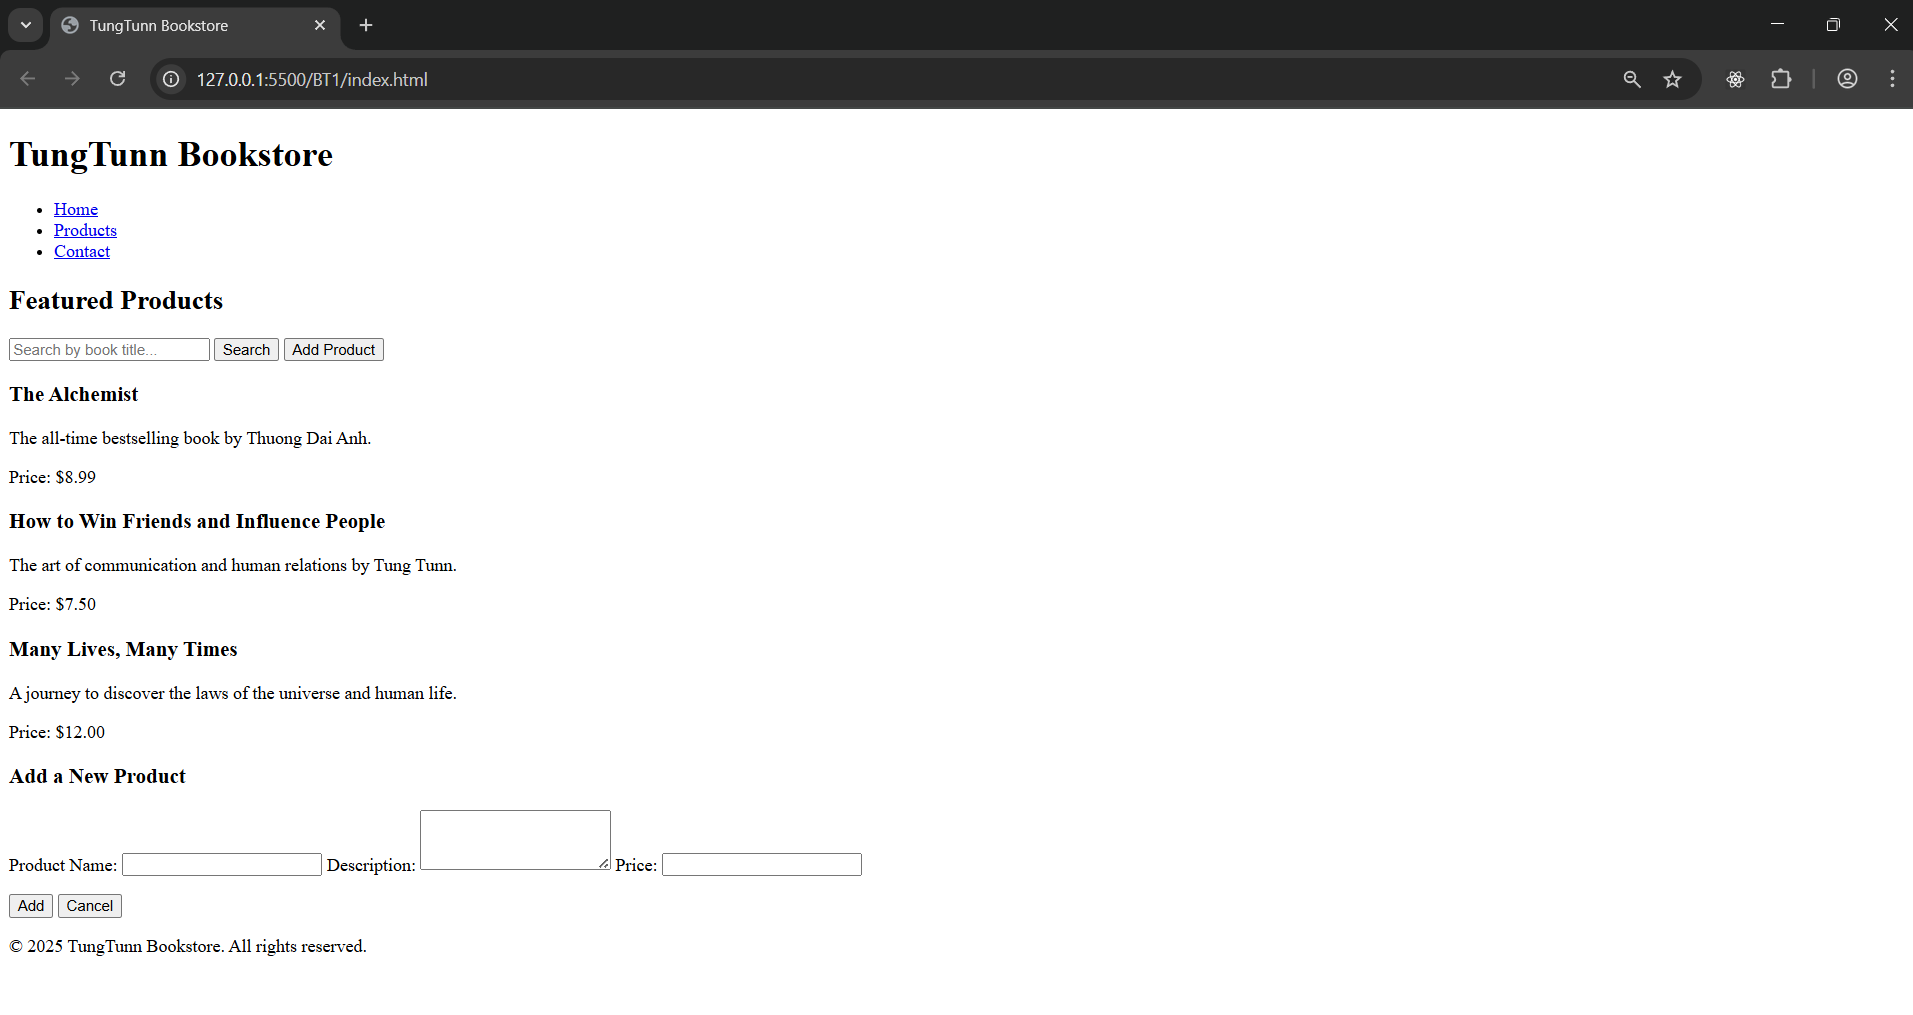
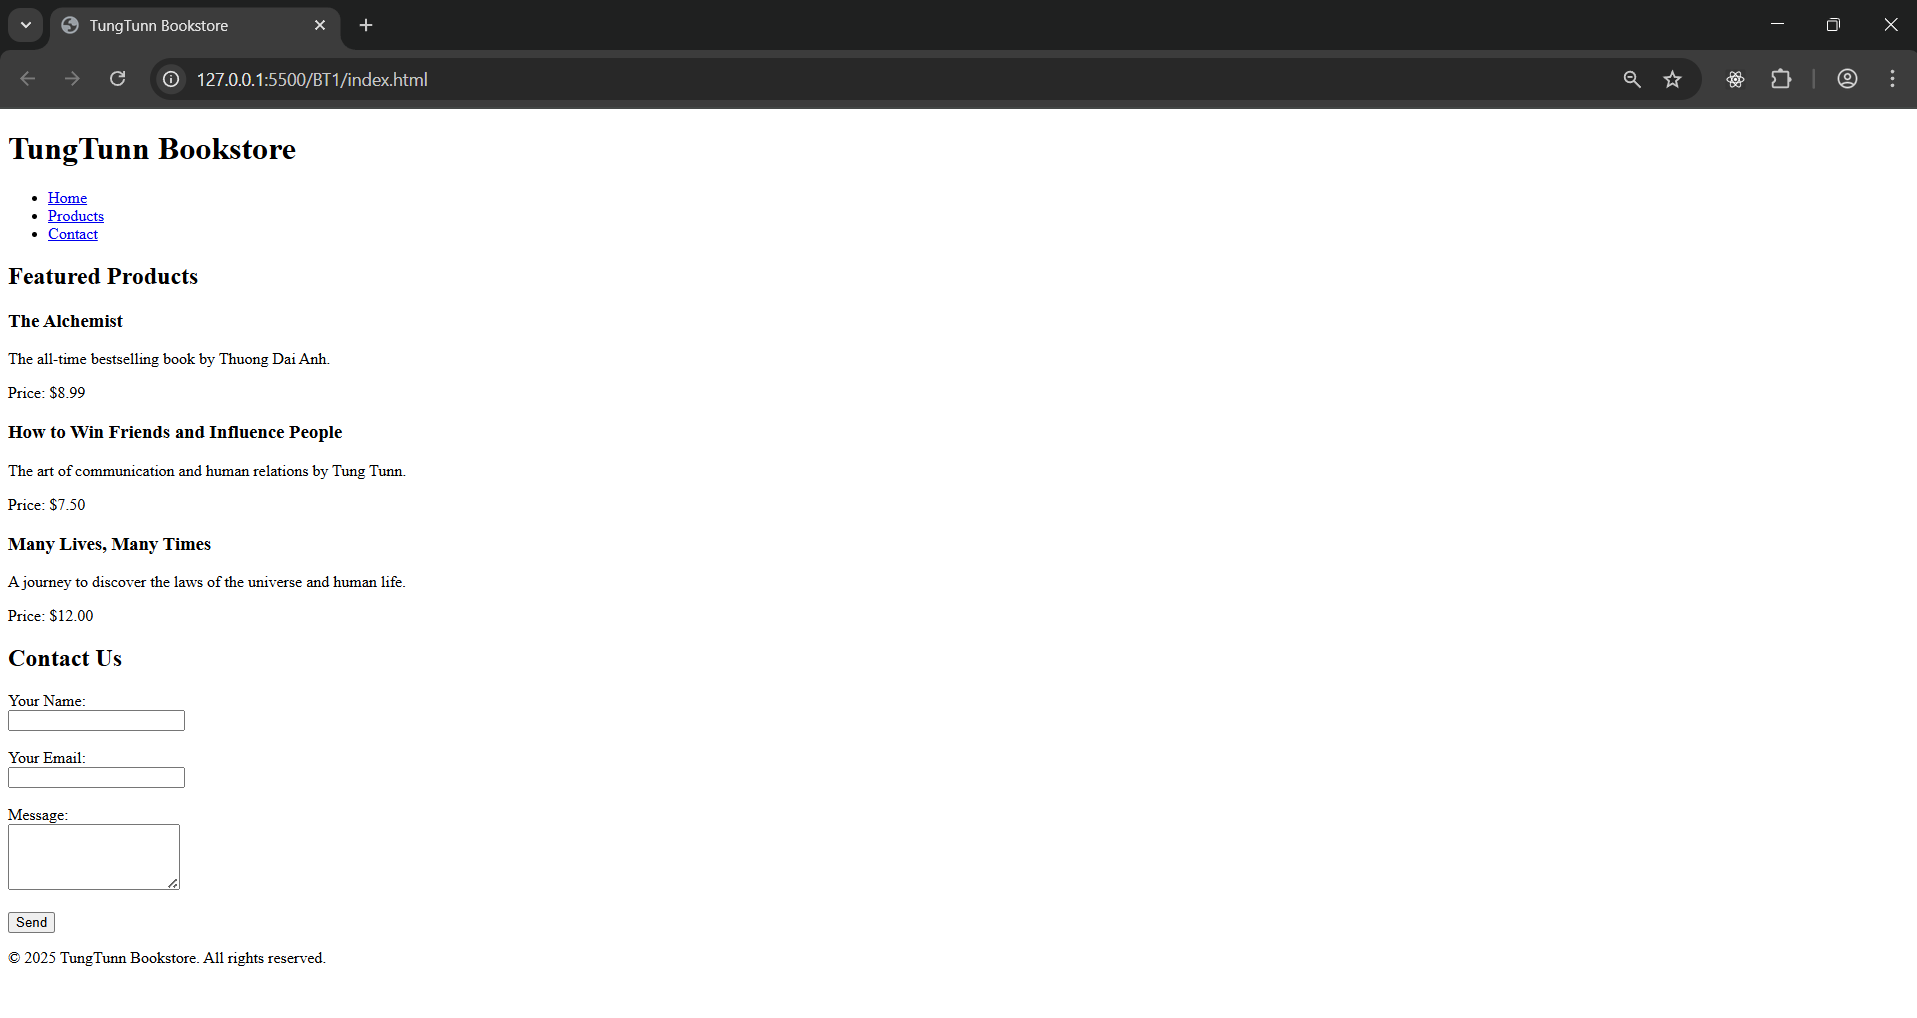
update BT1

diff --git a/BT1/index.html b/BT1/index.html
@@ -5,8 +5,6 @@
         <meta name="viewport" content="width=device-width, initial-scale=1.0" />
 
         <title>TungTunn Bookstore</title>
-
-        <link rel="stylesheet" href="style.css" />
     </head>
     <body>
         <header>
@@ -23,12 +21,6 @@
         <main>
             <section id="products">
                 <h2>Featured Products</h2>
-
-                <div id="controls">
-                    <input type="text" id="searchInput" placeholder="Search by book title..." />
-                    <button id="searchBtn">Search</button>
-                    <button id="addProductBtn">Add Product</button>
-                </div>
 
                 <div id="product-list">
                     <article class="product-item">
@@ -51,23 +43,19 @@
                 </div>
             </section>
 
-            <section id="add-product-section">
-                <form id="addProductForm" class="hidden">
-                    <h3>Add a New Product</h3>
+            <section id="contact-section">
+                <h2>Contact Us</h2>
+                <form>
+                    <label for="name">Your Name:</label><br />
+                    <input type="text" id="name" name="name" required /><br /><br />
 
-                    <label for="newName">Product Name:</label>
-                    <input type="text" id="newName" required />
+                    <label for="email">Your Email:</label><br />
+                    <input type="email" id="email" name="email" required /><br /><br />
 
-                    <label for="newDesc">Description:</label>
-                    <textarea id="newDesc" rows="3"></textarea>
+                    <label for="message">Message:</label><br />
+                    <textarea id="message" name="message" rows="4"></textarea><br /><br />
 
-                    <label for="newPrice">Price:</label>
-                    <input type="number" id="newPrice" required />
-
-                    <p id="errorMsg" style="color: red"></p>
-
-                    <button type="submit">Add</button>
-                    <button type="button" id="cancelBtn">Cancel</button>
+                    <button type="submit">Send</button>
                 </form>
             </section>
         </main>
@@ -75,7 +63,5 @@
         <footer>
             <p>&copy; 2025 TungTunn Bookstore. All rights reserved.</p>
         </footer>
-
-        <script src="script.js"></script>
     </body>
 </html>
